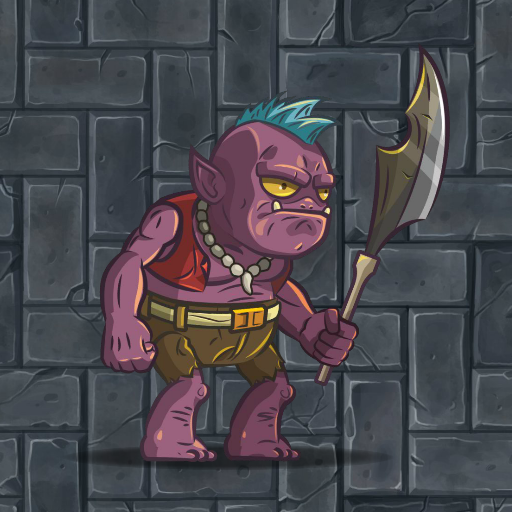
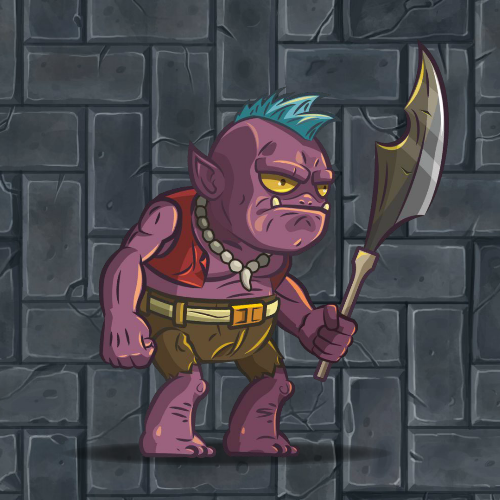
fixed image sizes, fixed window size, added level2 (not fully working)

diff --git a/src/dkeep/gui/GameGUI.java b/src/dkeep/gui/GameGUI.java
@@ -1,5 +1,6 @@
 package dkeep.gui;
 
+import java.awt.Color;
 import java.awt.EventQueue;
 import java.awt.Font;
 
@@ -31,6 +32,16 @@ public class GameGUI {
             {'X','X','X',' ','X','X','X','X',' ','X'},
             {'X',' ','I',' ','I',' ','X','k',' ','X'},
             {'X','X','X','X','X','X','X','X','X','X'}};
+	static char level2[][] = {
+            {'X','X','X','X','X','X','X','X','X'},
+            {'I',' ',' ',' ',' ',' ',' ','O','X'},
+            {'X',' ',' ',' ',' ',' ',' ',' ','X'},
+            {'X',' ',' ',' ',' ',' ',' ',' ','X'},
+            {'X',' ',' ',' ',' ',' ',' ',' ','X'},
+            {'X',' ',' ',' ',' ',' ',' ',' ','X'},
+            {'X',' ',' ',' ',' ',' ',' ',' ','X'},
+            {'X','H',' ',' ',' ',' ',' ',' ','X'},
+            {'X','X','X','X','X','X','X','X','X'}};
 	
 	static JFrame gameFrame;
 	static JLayeredPane layerPane;
@@ -68,25 +79,26 @@ public class GameGUI {
 	private void initialize() {
 		
 		gameFrame = new JFrame();
-		gameFrame.setResizable(false);
-		gameFrame.setBounds(0, 0, 500, 500);
+		gameFrame.setResizable(true);
+		gameFrame.setBounds(400, 160, 600, 635);
+		//gameFrame.pack();
 		gameFrame.setTitle("DnD");
 		gameFrame.setDefaultCloseOperation(JFrame.DISPOSE_ON_CLOSE);
 		gameFrame.getContentPane().setLayout(null);
 		
 		
 		layerPane = new JLayeredPane();
-		layerPane.setBounds(0,0,500,500);
+		layerPane.setBounds(0,0,600,600);
 		gameFrame.getContentPane().add(layerPane);
 		layerPane.setLayout(null);
 		
-		level1Panel = new Level1GUI(500, 500, 10);
-		level1Panel.setBounds(0, 0, 500, 500);
+		level1Panel = new Level1GUI(600, 600, 10);
+		level1Panel.setBounds(0, 0, 600, 600);
 		level1Panel.setVisible(false);
 		layerPane.add(level1Panel);
 		
 		menu = new MenuGUI();
-		menu.setBounds(0, 0, 500, 500);
+		menu.setBounds(0, -3, 600, 600);
 		layerPane.add(menu);
 		menu.setLayout(null);
 		
@@ -99,11 +111,17 @@ public class GameGUI {
 
 	}
 	
+	
 	public static Game getGame() {
 		return game;
 	}
 	
+	
 	public static GameMap getMap() {
 		return game.getMap();
+	}
+	
+	public static void setLevel2() {
+		GameGUI.game.setMap(new GameMap(level2));
 	}
 }

diff --git a/src/dkeep/gui/MenuGUI.java b/src/dkeep/gui/MenuGUI.java
@@ -30,8 +30,9 @@ public class MenuGUI extends JPanel{
 	
 	private void setImage() {
 		JPanel menuImgPanel = new JPanel();
-		menuImgPanel.setBounds(0, 0, 500, 500);
-		ImageIcon menuImg = new ImageIcon(this.getClass().getResource("res/menu2.png"));
+		menuImgPanel.setBounds(0, 0, 600, 600);
+		menuImgPanel.setBackground(Color.BLACK);
+		ImageIcon menuImg = new ImageIcon(this.getClass().getResource("res/menu3.png"));
 		menuImgPanel.add(new JLabel(menuImg));
 		add(menuImgPanel);
 	}
@@ -40,7 +41,7 @@ public class MenuGUI extends JPanel{
 private void setBtnExit() {
 		
 		JButton btnExit = new JButton("");
-		btnExit.setBorder(new MatteBorder(1, 1, 1, 1, (Color) new Color(0, 0, 0)));
+		//btnExit.setBorder(new MatteBorder(1, 1, 1, 1, (Color) new Color(0, 0, 0)));
 		btnExit.setBackground(Color.BLACK);
 		btnExit.setIcon(new ImageIcon(MenuGUI.class.getResource("res/btnExit3.jpg")));
 		btnExit.addActionListener(new ActionListener() {
@@ -55,7 +56,7 @@ private void setBtnExit() {
 public void setBtnNewGame(){
 	
 		JButton btnNewGame  = new JButton("");
-		btnNewGame.setBorder(new MatteBorder(1, 1, 1, 1, (Color) new Color(0, 0, 0)));
+		//btnNewGame.setBorder(new MatteBorder(1, 1, 1, 1, (Color) new Color(0, 0, 0)));
 		btnNewGame.setBackground(Color.BLACK);
 		btnNewGame.setIcon(new ImageIcon(MenuGUI.class.getResource("res/btnNewGame3.jpg")));
 		btnNewGame.addActionListener(new ActionListener() {
@@ -65,7 +66,6 @@ public void setBtnNewGame(){
 				comboBox = new JComboBox();
 				comboBox.setBounds(182, 24, 106, 20);
 				add(comboBox);
-				comboBox.addItem("Random Guard");
 				comboBox.addItem("Rookie");
 				comboBox.addItem("Drunken");
 				comboBox.addItem("Suspicious");		

diff --git a/src/dkeep/gui/Map.java b/src/dkeep/gui/Map.java
@@ -26,7 +26,7 @@ public class Map extends JPanel{
 	private ImageIcon resizeImage(ImageIcon im) {
 
 		Image img = im.getImage();
-		Image newimg = img.getScaledInstance(this.getWidth() / 10, this.getHeight() / 10, Image.SCALE_FAST);
+		Image newimg = img.getScaledInstance(this.getWidth() / 10, this.getHeight() / 10, Image.SCALE_DEFAULT);
 
 		return new ImageIcon(newimg);
 	}
@@ -39,8 +39,8 @@ public class Map extends JPanel{
 		floor = new ImageIcon(this.getClass().getResource("res/floor.png"));
 		hero = new ImageIcon(this.getClass().getResource("res/hero.png"));
 		key = new ImageIcon(this.getClass().getResource("res/key.png"));
-		openDoor = new ImageIcon(this.getClass().getResource("res/openDoor.png"));
-		closedDoor = new ImageIcon(this.getClass().getResource("res/closedDoor.png"));
+		openDoor = new ImageIcon(this.getClass().getResource("res/openDoor2.png"));
+		closedDoor = new ImageIcon(this.getClass().getResource("res/closedDoor2.png"));
 		//ogre = new ImageIcon(this.getClass().getResource("res/ogre.png"));
 
 		wall = resizeImage(wall);

diff --git a/src/dkeep/gui/Level1GUI.java b/src/dkeep/gui/Level1GUI.java
@@ -9,6 +9,7 @@ import java.awt.GridLayout;
 
 import dkeep.logic.Game;
 import dkeep.logic.GameMap;
+import dkeep.logic.Guard;
 
 public class Level1GUI extends Map implements KeyListener {
 	
@@ -37,15 +38,17 @@ public class Level1GUI extends Map implements KeyListener {
 		
 		
 
-		if (GameGUI.getGame().isGameOver()){
-			
-			System.exit(0);
-			
+		if (GameGUI.getGame().isGameOver()){	
+			System.exit(0);	
 		}
-		GameGUI.getGame().moveHero(input);
+		//GameGUI.getGame().moveHero(input);
 		
 		
-		GameGUI.getGame().moveGuard(GameGUI.getGame().getGuard());
+		//GameGUI.getGame().moveGuard(GameGUI.getGame().getGuard());
+		GameGUI.getGame().updateGame(input, GameGUI.getGame().getGuard());
+		if(GameGUI.getMap().getMap()[GameGUI.getGame().getHeroPosition().getY()][GameGUI.getGame().getHeroPosition().getX()-1] == 'S') 	
+			GameGUI.setLevel2();
+
 		
 		update();
 		

diff --git a/src/dkeep/logic/Game.java b/src/dkeep/logic/Game.java
@@ -3,7 +3,7 @@ package dkeep.logic;
 import java.util.Random;
 
 public class Game {
-	
+
 	private GameMap map;
 	private Hero hero;
 	private Key lever;
@@ -35,6 +35,13 @@ public class Game {
 		default:
 			break;
 		}
+	}
+	
+	public void updateGame(String input, Guard guard) {		
+
+			moveGuard(guard);
+			moveHero(input);
+		
 	}
 
 	public void moveHero(String input) {
@@ -127,10 +134,10 @@ public class Game {
 			}
 		}
 		
-		if(map.getMap()[hero.getPosition().getY()][hero.getPosition().getX()-1] == 'S') {
+		/*if(map.getMap()[hero.getPosition().getY()][hero.getPosition().getX()-1] == 'S') {
 			System.out.println("YOU WIN!"); 
 			return true;
-		}		
+		}	*/	
 		return false;
 	}
 }
